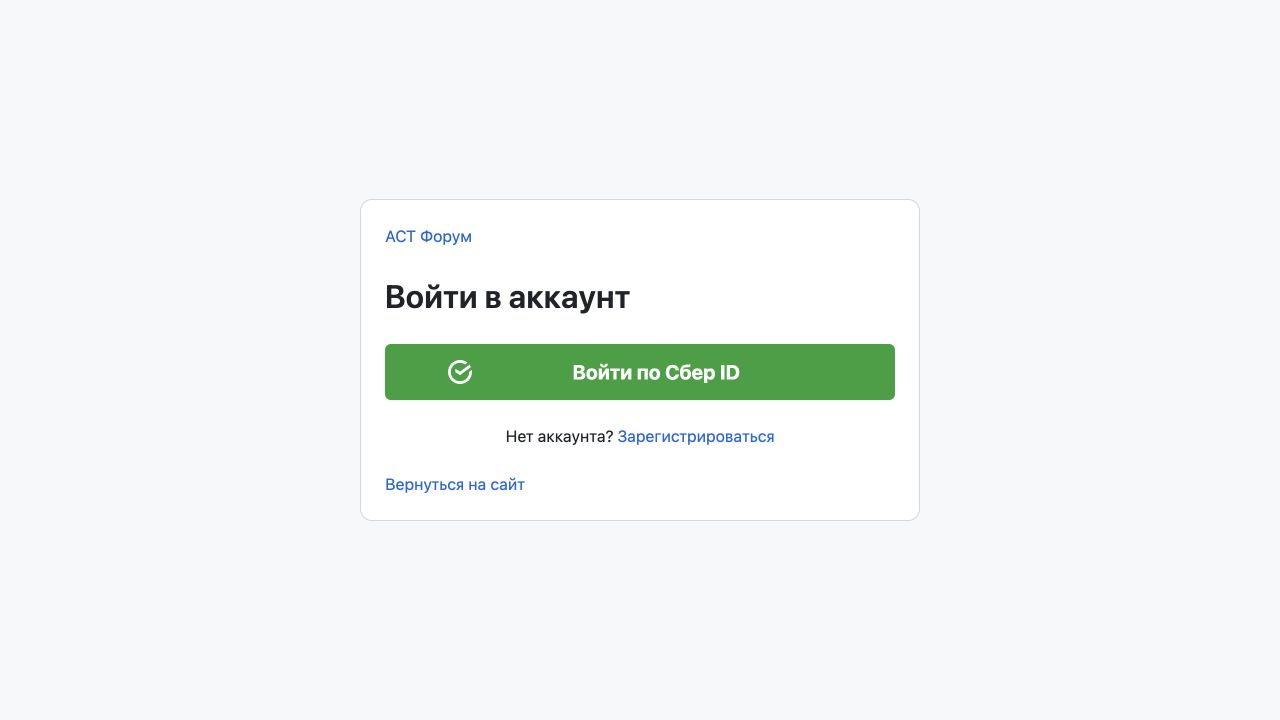
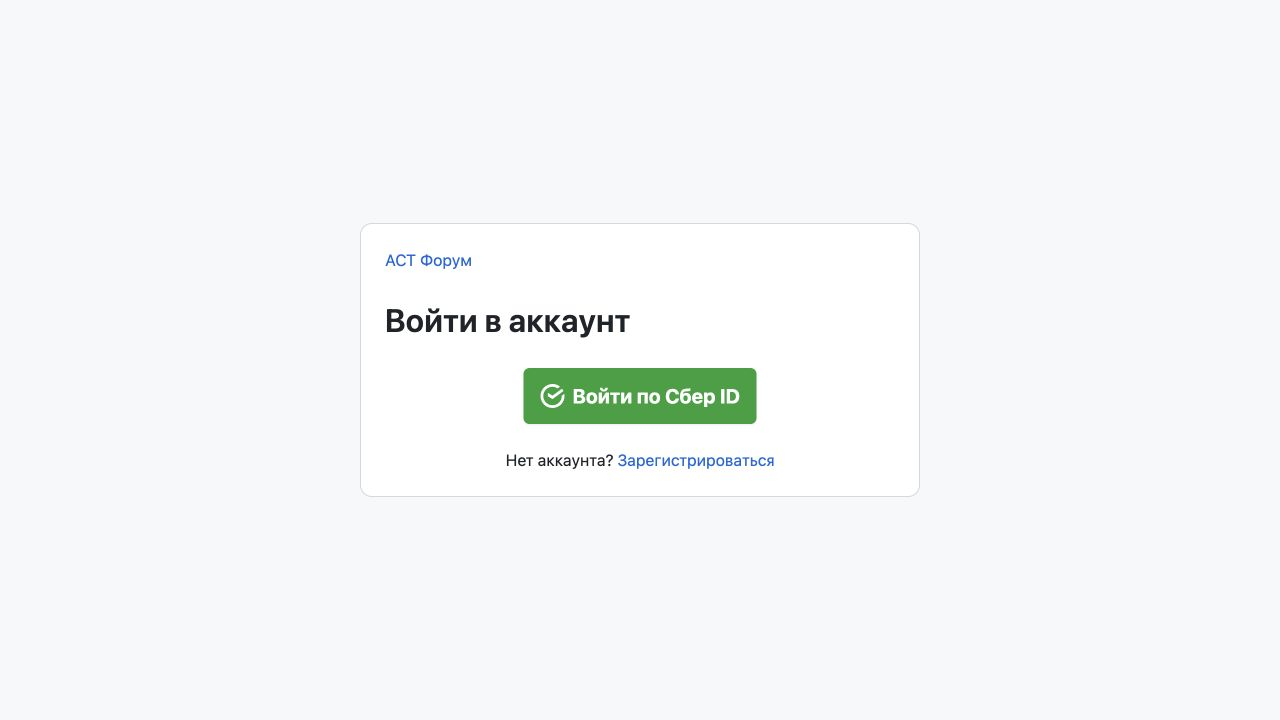
PROJ-31: narrow Sber button and remove return link

Changed region(s): [[0.2812, 0.3972, 0.7188, 0.7028], [0.2812, 0.3056, 0.375, 0.3667]]

diff --git a/deployment/public-auth/src/PublicAuth.tsx b/deployment/public-auth/src/PublicAuth.tsx
@@ -127,7 +127,7 @@ export function PublicAuth({navigate = url => location.assign(url)}: {navigate?:
   const body = <Stack gap="spacious" className="public-auth-content">
     {message && <Banner title="Вход не завершён" variant="warning"><span role="alert">{message}</span></Banner>}
     {session.kind === 'authenticated' ? <Text as="p" role="status">Вы уже вошли в аккаунт</Text> : <>
-      <Button variant="primary" size="large" block className="public-auth-sber"
+      <Button variant="primary" size="large" className="public-auth-sber"
         disabled={session.kind !== 'guest' || redirecting || blocked || unavailable} onClick={start}>
         <span className="public-auth-label-layout"><img src={sberMark} alt="" aria-hidden className="public-auth-mark" /><span className="public-auth-label">{mode === 'register' ? 'Зарегистрироваться через Сбер ID' : 'Войти по Сбер ID'}</span></span>
       </Button>
@@ -145,7 +145,6 @@ export function PublicAuth({navigate = url => location.assign(url)}: {navigate?:
       if (session.kind === 'unknown') {setRetry(value => value+1)}
       else start()
     }}>Повторить</Button>}
-    {!view.modal && <Link href="/">Вернуться на сайт</Link>}
   </Stack>
   if (view.modal) return <Dialog title={title} renderHeader={ModalHeader} returnFocusRef={returnFocusRef}
     onClose={() => {setView(null); history.back()}} width="min(560px, calc(100vw - var(--base-size-32)))" position="center">{body}</Dialog>

diff --git a/deployment/public-auth/src/auth.css b/deployment/public-auth/src/auth.css
@@ -11,6 +11,7 @@
   --button-primary-iconColor-rest: var(--sber-button-label);
   min-width: 0;
   max-width: 100%;
+  align-self: center;
   min-height: var(--base-size-48);
   height: auto;
   padding: var(--base-size-12) var(--base-size-16);
@@ -29,4 +30,4 @@
 .public-auth-label {display: block; white-space: normal; overflow-wrap: anywhere;}
 .public-auth-panel {min-width: 0;}
 
-.public-auth-label-layout {display: grid; grid-template-columns: var(--base-size-24) minmax(0, 1fr); align-items: center; gap: var(--base-size-8); inline-size: min(24rem, calc(100vw - var(--base-size-96) - var(--base-size-16)));}
+.public-auth-label-layout {display: grid; grid-template-columns: var(--base-size-24) minmax(0, 1fr); align-items: center; gap: var(--base-size-8); inline-size: max-content; max-inline-size: min(20rem, calc(100vw - var(--base-size-96) - var(--base-size-16)));}

diff --git a/deployment/public-auth/src/PublicAuth.test.tsx b/deployment/public-auth/src/PublicAuth.test.tsx
@@ -43,7 +43,7 @@ describe('public authentication', () => {
     mount()
     expect(screen.getByRole('heading', {name:'Создайте аккаунт'})).toBeInTheDocument()
     expect(screen.queryByRole('dialog')).not.toBeInTheDocument()
-    expect(screen.getByRole('link', {name:'Вернуться на сайт'})).toHaveAttribute('href','/')
+    expect(screen.getByRole('link', {name:'АСТ Форум'})).toHaveAttribute('href','/')
     expect(location.search).toBe('')
     expect(await screen.findByRole('button', {name:'Зарегистрироваться через Сбер ID'})).toBeEnabled()
   })

diff --git a/deployment/public-auth/README.md b/deployment/public-auth/README.md
@@ -4,7 +4,9 @@
 
 Один компонент `PublicAuth` для модального окна на всех публичных страницах и самостоятельных `/login`, `/register`. Только Сбер ID. Существующие ссылки публичных пакетов заменяются адаптером на прямые URL; обычное нажатие открывает Primer Dialog, modified click работает как обычная ссылка. Обновление модального URL открывает самостоятельную форму. Переключение режима заменяет историю; Back/крестик/Escape/фон закрывают окно. Действия и источник в query или storage не передаются. Устаревший marker resume.js удаляется из публичных HTML при публикации; старые public/customer intent очищаются до нового IAM-потока.
 
-`GET /api/auth/session` проверяется до запуска IAM с 10-секундным timeout. Только 401 означает гостя. Невалидный 200, 5xx, сеть и timeout дают повтор проверки. `auth=success` не выдаёт сессию. Ошибки E01–E07, `registration_required`, `account_exists` обрабатываются без автоматического нового OAuth. Блокировка/конфликт не предлагают регистрацию для обхода. Уже вошедшему предлагается вернуться на сайт; кабинет и создание участников принадлежат IAM.
+`GET /api/auth/session` проверяется до запуска IAM с 10-секундным timeout. Только 401 означает гостя. Невалидный 200, 5xx, сеть и timeout дают повтор проверки. `auth=success` не выдаёт сессию. Ошибки E01–E07, `registration_required`, `account_exists` обрабатываются без автоматического нового OAuth. Блокировка/конфликт не предлагают регистрацию для обхода. Уже вошедшему показан статус входа; кабинет и создание участников принадлежат IAM.
+
+Уточнение владельца от 02.10.2026: кнопка Сбер ID компактна, центрируется и ограничена шириной содержимого; отдельная ссылка «Вернуться на сайт» удалена из общей формы. На самостоятельной странице остаётся ссылка бренда «АСТ Форум».
 
 Кнопки используют только Primer React / Primitives Light / Octicons. Поверхности и фокус — Primer Light без новых Forum mappings. Специальные vendor-токены Сбера из [официального руководства](https://developers.sber.ru/docs/ru/sberid/guidebook) вынесены в `src/sber-tokens.css`: зелёный rest #21A038, hover #1E9032, белый официальный знак Сбера. Жирная подпись 20px обеспечивает необходимый контраст для large text. Прямое требование документа «Зарегистрироваться через Сбер ID» сохранено; руководство рекомендует «Зарегистрироваться со Сбер ID». Правила написания пользовательского документа имеют приоритет.
 

diff --git a/deployment/public-auth/evidence/verification.md b/deployment/public-auth/evidence/verification.md
@@ -18,3 +18,5 @@ Live provider account creation and full VoiceOver not tested; IAM backend remain
 PR #13 создан в правильном репозитории mcvvvnukova-bit/forum, base main, ветка codex/PROJ-31-public-auth-form; commits и состав файлов проверены через gh. PR прикреплён к чату; после reload во вкладке GitHub PROJ-31 показан mcvvvnukova-bit/forum#13.
 
 Снимки: login-desktop.jpg, register-tablet.jpg, register-mobile.jpg. На 768 px panel x104..664, width560, scrollWidth768; на 360 px scrollWidth360. Клавиатура: Tab с крестика на provider внутри dialog; Escape закрывает и возвращает focus «Войти». VoiceOver не запускался.
+
+Уточнение владельца: кнопка стала компактнее и центрируется, ссылка «Вернуться на сайт» удалена. В IAB на 1280 px кнопка входа 233.38 px, регистрации 354 px; на мобильном 360 px кнопка регистрации 282 px, scrollWidth360, полный текст виден. Обновлены снимки; 17 frontend + 5 deployment tests, lint, typecheck/build прошли повторно. Повторное подключение SSH также завершилось timeout до каких-либо изменений на сервере.
